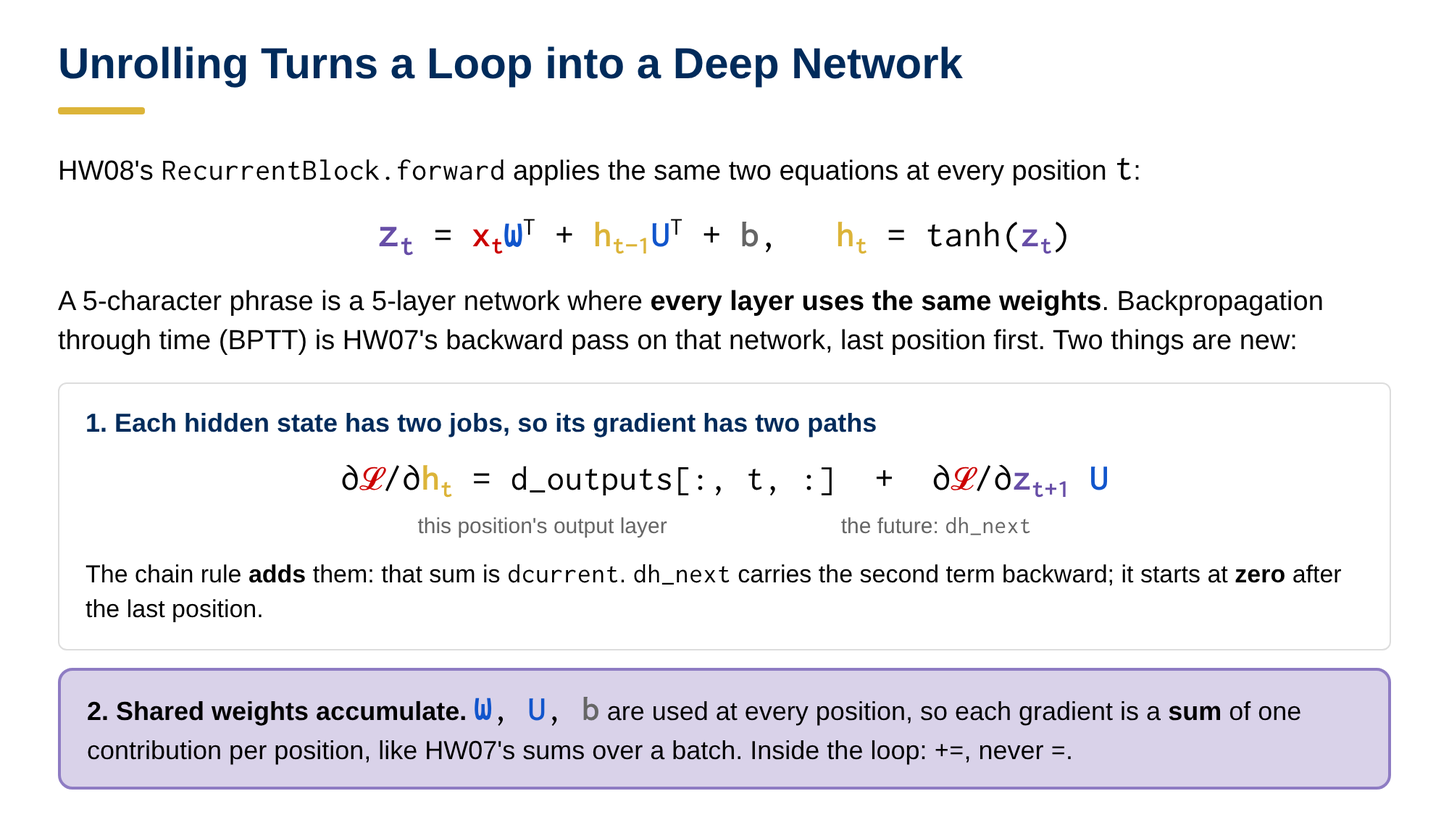
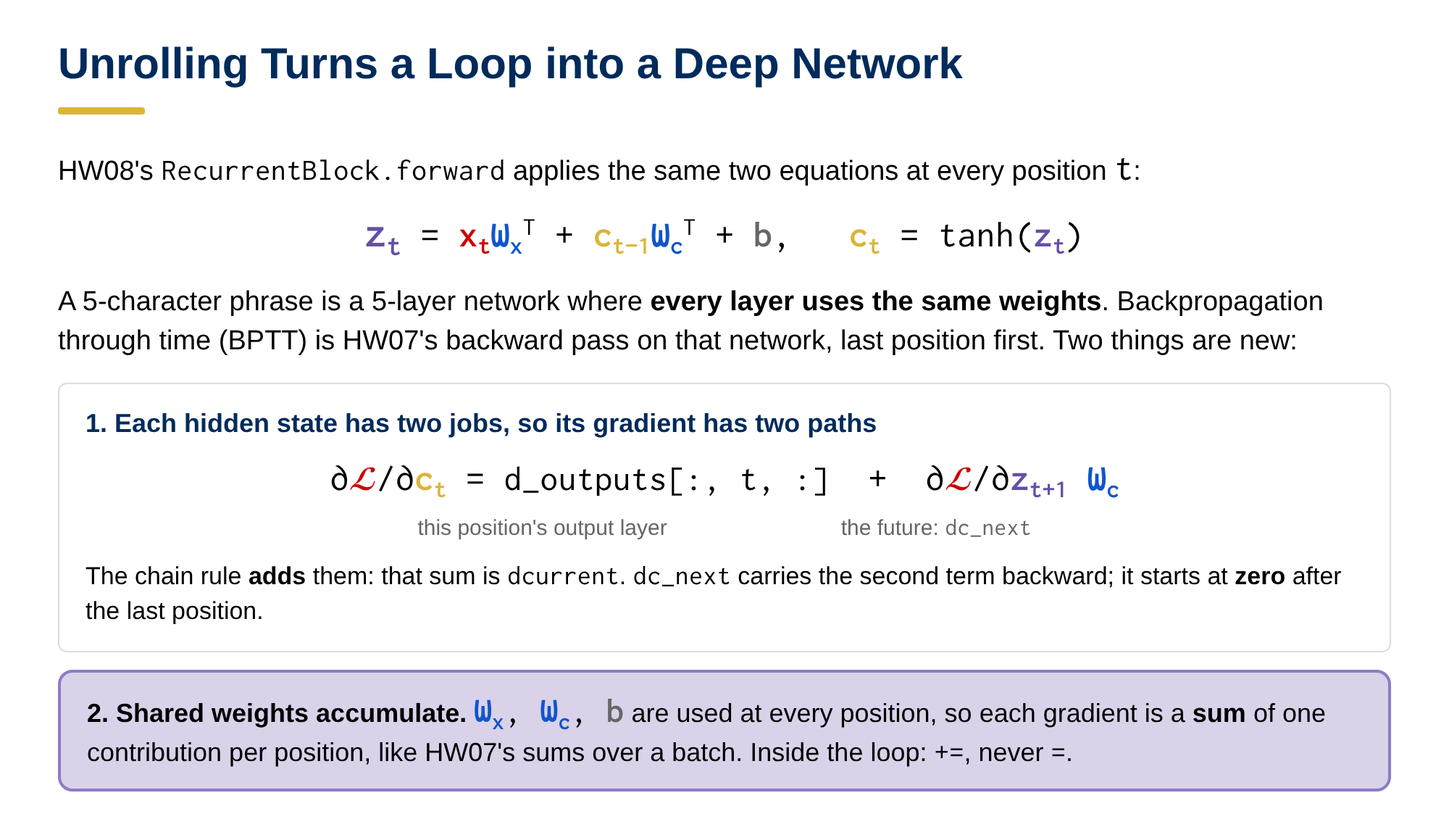
HW08-10: hidden state c (context) and weights Wx, Wc, as in the AI2AI book
The recurrent block's W/U become Wx/Wc, dW/dU become dWx/dWc, h_at_timestep/h_prev_at_timestep
become c_at_timestep/c_prev_at_timestep, dh_next becomes dc_next and h0 becomes c0 (HW08, HW09,
HW10's frozen-RNN cell). Plates 08 03-2b, 04-1, 04-2a/b/c, 05-1a/b and 09 01-3a/b/c, 02-1d re-rendered.
The checkpoint keys recurrent_W / recurrent_U are unchanged.

Claude-Session: https://claude.ai/code/session_01TFuZoG8U8ywpsP8NejiAAC

diff --git a/draft_tools/plates08.py b/draft_tools/plates08.py
@@ -1,5 +1,6 @@
 """HW08 explanation plates (lecture-style PNGs) and the notebook swap.
 
+Nov 8 2026: the hidden state is c (for context) and the recurrent weights Wx and Wc, as in the AI2AI book (were h, W, U).
 Nov 8 2026 rebuild on the SP26 classes: 02-2b, 03-1a/b, 04-1, 04-2a/b/c, 05-1a/b rewritten for
 Rot13Dataset / EmbeddingLayer / RecurrentBlock / RecurrentNeuralNetwork / CharRNN; 05-2a/b moved out (metrics are HW09).
 
@@ -196,25 +197,25 @@ def _():
 @plate('plate_04-1_rnn_step')
 def _():
     rows = [('<span class="r">x<sub>t</sub></span>', 'embeddings of the characters at position t, one row per phrase', '(B, 32)'),
-            ('<span class="y">h<sub>t−1</sub></span>', 'previous hidden states', '(B, 64)'),
-            ('<span class="b">W</span>', 'turns the current input into hidden-state space', '(64, 32)'),
-            ('<span class="b">U</span>', 'turns the previous hidden state into hidden-state space', '(64, 64)'),
+            ('<span class="y">c<sub>t−1</sub></span>', 'previous hidden states', '(B, 64)'),
+            ('<span class="b">W<sub>x</sub></span>', 'turns the current input into hidden-state space', '(64, 32)'),
+            ('<span class="b">W<sub>c</sub></span>', 'turns the previous hidden state into hidden-state space', '(64, 64)'),
             ('<span class="k2">b</span>', 'hidden bias', '(64,)'),
-            ('<span class="y">h<sub>t</sub></span>', 'new hidden states', '(B, 64)')]
+            ('<span class="y">c<sub>t</sub></span>', 'new hidden states', '(B, 64)')]
     body = ''.join(f'<tr><td class="m">{a}</td><td>{b}</td><td class="code">{c}</td></tr>' for a, b, c in rows)
     return title('A Network with a Memory') + f'''
-<p>Text arrives in order, and what a character means can depend on what came before. A <b class="def">recurrent neural network</b> reads one position at a time and keeps a <b class="def">hidden state</b> <span class="m y">h<sub>t</sub></span>, a vector summarizing everything read so far. One step of <span class="code">RecurrentBlock.forward</span>:</p>
-<div class="eq"><span class="p">z<sub>t</sub></span> = <span class="r">x<sub>t</sub></span> <span class="b">W</span><sup>T</sup> + <span class="y">h<sub>t−1</sub></span> <span class="b">U</span><sup>T</sup> + <span class="k2">b</span>, &nbsp; <span class="y">h<sub>t</sub></span> = tanh(<span class="p">z<sub>t</sub></span>)</div>
+<p>Text arrives in order, and what a character means can depend on what came before. A <b class="def">recurrent neural network</b> reads one position at a time and keeps a <b class="def">hidden state</b> <span class="m y">c<sub>t</sub></span> (<span class="m y">c</span> for context), a vector summarizing everything read so far. One step of <span class="code">RecurrentBlock.forward</span>:</p>
+<div class="eq"><span class="p">z<sub>t</sub></span> = <span class="r">x<sub>t</sub></span> <span class="b">W<sub>x</sub></span><sup>T</sup> + <span class="y">c<sub>t−1</sub></span> <span class="b">W<sub>c</sub></span><sup>T</sup> + <span class="k2">b</span>, &nbsp; <span class="y">c<sub>t</sub></span> = tanh(<span class="p">z<sub>t</sub></span>)</div>
 <div class="row" style="align-items:flex-start">
  <div style="flex:1.35"><table class="t" style="font-size:16px;margin:0"><tr><th>Symbol</th><th>Meaning</th><th>Shape</th></tr>{body}</table>
- <p style="font-size:15px;margin:8px 0 0" class="k">Both products are a linear layer's "outputs × inputs" weights. The first step starts from <span class="m">h<sub>0</sub> = 0</span>.</p></div>
+ <p style="font-size:15px;margin:8px 0 0" class="k">Both products are a linear layer's "outputs × inputs" weights. The first step starts from <span class="m">c<sub>0</sub> = 0</span>.</p></div>
  <div class="card" style="margin:0"><h3>Worked Example</h3>
- <div style="font-size:15px;margin-bottom:6px"><span class="m r">x<sub>t</sub> = [1, 0]</span>, <span class="m y">h<sub>t−1</sub> = [0.5, −0.5]</span>,<br><span class="m b">W = I</span>, <span class="m b">U = 0.5 I</span>, <span class="m k2">b = [0, 0.1]</span></div>
+ <div style="font-size:15px;margin-bottom:6px"><span class="m r">x<sub>t</sub> = [1, 0]</span>, <span class="m y">c<sub>t−1</sub> = [0.5, −0.5]</span>,<br><span class="m b">W<sub>x</sub> = I</span>, <span class="m b">W<sub>c</sub> = 0.5 I</span>, <span class="m k2">b = [0, 0.1]</span></div>
  <div class="m" style="font-size:18px;line-height:1.8">
- <span class="r">x<sub>t</sub></span><span class="b">W</span><sup>T</sup> = [1, 0]<br>
- <span class="y">h<sub>t−1</sub></span><span class="b">U</span><sup>T</sup> = [0.25, −0.25]<br>
+ <span class="r">x<sub>t</sub></span><span class="b">W<sub>x</sub></span><sup>T</sup> = [1, 0]<br>
+ <span class="y">c<sub>t−1</sub></span><span class="b">W<sub>c</sub></span><sup>T</sup> = [0.25, −0.25]<br>
  <span class="p">z<sub>t</sub> = [1.25, −0.15]</span> <span class="note k">sum plus bias</span><br>
- <span class="y">h<sub>t</sub></span> = tanh(<span class="p">z<sub>t</sub></span>) = <span class="y">[0.8483, −0.1489]</span></div></div>
+ <span class="y">c<sub>t</sub></span> = tanh(<span class="p">z<sub>t</sub></span>) = <span class="y">[0.8483, −0.1489]</span></div></div>
 </div>
 '''
 
@@ -227,14 +228,14 @@ def _():
     for i, c in enumerate(chars):
         cols += f'''<div style="display:flex;flex-direction:column;align-items:center;gap:4px">
           <div class="box fp lp" style="min-width:58px;padding:4px;font-size:14px">logits</div><span class="arr" style="font-size:18px;padding:0">↑</span>
-          <div class="box fy ly" style="min-width:58px;padding:8px 4px;font-size:16px">h<sub>{i+1}</sub></div><span class="arr" style="font-size:18px;padding:0">↑</span>
+          <div class="box fy ly" style="min-width:58px;padding:8px 4px;font-size:16px">c<sub>{i+1}</sub></div><span class="arr" style="font-size:18px;padding:0">↑</span>
           <div class="box fr lr" style="min-width:58px;padding:4px;font-size:15px;font-family:Inc">{c}</div></div>'''
         if i < len(chars) - 1:
             cols += '<span class="arr y" style="font-size:22px;padding:0 2px;margin-top:6px">→</span>'
     return title('Unrolling Over the Whole Sequence') + f'''
 <p>Apply the same step at every position, passing each hidden state on to the next. Drawn out across time, the loop looks like a very deep network whose layers all <b>share the same weights</b>.</p>
-<div style="display:flex;align-items:center;justify-content:center;margin:6px 0 4px"><div class="box fy ly" style="min-width:0;padding:8px;font-size:16px;margin-top:6px">h<sub>0</sub>=0</div><span class="arr y" style="font-size:22px;margin-top:6px">→</span>{cols}</div>
-<p style="text-align:center;font-size:15px" class="k">every column uses the same <span class="m b">W</span> and <span class="m b">U</span> (and the same output layer); only the hidden state changes</p>
+<div style="display:flex;align-items:center;justify-content:center;margin:6px 0 4px"><div class="box fy ly" style="min-width:0;padding:8px;font-size:16px;margin-top:6px">c<sub>0</sub>=0</div><span class="arr y" style="font-size:22px;margin-top:6px">→</span>{cols}</div>
+<p style="text-align:center;font-size:15px" class="k">every column uses the same <span class="m b">W<sub>x</sub></span> and <span class="m b">W<sub>c</sub></span> (and the same output layer); only the hidden state changes</p>
 <div class="row" style="margin-bottom:10px">
  <div class="card" style="margin:0"><h3>One prediction per position</h3>The <span class="code">RecurrentBlock</span> returns every hidden state, <span class="code">(B, T, 64)</span>. The output <span class="code">LinearLayer</span> then turns each one into 41 logits:
  <span class="code">(B, T)</span> source IDs → <span class="code">(B, T, 41)</span> logits. The target at position <span class="m">t</span> is the translation of source character <span class="m">t</span>.</div>
@@ -247,7 +248,7 @@ def _():
 
 @plate('plate_04-2c_parameters')
 def _():
-    rows = [('EmbeddingLayer.W', '32 × 41', '1,312'), ('RecurrentBlock.W', '64 × 32', '2,048'), ('RecurrentBlock.U', '64 × 64', '4,096'),
+    rows = [('EmbeddingLayer.W', '32 × 41', '1,312'), ('RecurrentBlock.Wx', '64 × 32', '2,048'), ('RecurrentBlock.Wc', '64 × 64', '4,096'),
             ('RecurrentBlock.b', '64', '64'), ('output LinearLayer.W', '41 × 64', '2,624'), ('output LinearLayer.b', '41', '41')]
     body = ''.join(f'<tr><td><span class="code" style="font-weight:bold">{a}</span></td><td class="m">{c}</td><td class="m num">{d}</td></tr>' for a, c, d in rows)
     return title('Counting Parameters') + f'''
@@ -268,7 +269,7 @@ def _():
 def _():
     rows = [('<span class="code">EmbeddingLayer</span>', 'nn.Embedding(vocab_size, embed_size)', '<span class="code">.weight</span> is <span class="code">(V, 32)</span>: one <b>row</b> per token, our <span class="code">W</span> transposed'),
             ('<span class="code">RecurrentBlock</span>', 'nn.RNN(input_size=embed_size, hidden_size=hidden_size, batch_first=True)', 'tanh by default; returns all hidden states'),
-            ('<span class="code">W</span>, <span class="code">U</span>', '.weight_ih_l0, .weight_hh_l0', '"input-to-hidden" and "hidden-to-hidden", layer 0'),
+            ('<span class="code">Wx</span>, <span class="code">Wc</span>', '.weight_ih_l0, .weight_hh_l0', '"input-to-hidden" and "hidden-to-hidden", layer 0'),
             ('<span class="code">b</span>', '.bias_ih_l0 + .bias_hh_l0', 'PyTorch adds <b>two</b> biases'),
             ('output <span class="code">LinearLayer</span>', 'nn.Linear(hidden_size, vocab_size)', '<span class="code">.weight</span> <span class="code">(V, 64)</span>, <span class="code">.bias</span> <span class="code">(V,)</span>')]
     body = ''.join(f'<tr><td>{a}</td><td class="code" style="background:#EEF3FC;font-size:14px;white-space:normal">{b}</td><td style="font-size:15px">{c}</td></tr>' for a, b, c in rows)
@@ -278,7 +279,7 @@ def _():
  <div class="card" style="margin:0"><h3><span class="code">batch_first=True</span></h3>Makes <span class="code">nn.RNN</span> accept <span class="code">(B, T, 32)</span> like ours (its default is <span class="code">(T, B, 32)</span>).
  It returns the hidden states at every position, <span class="code">(B, T, 64)</span>, and the final state. We only need the first.</div>
  <div class="callout lr fr" style="margin:0"><b>The two-bias detail.</b> PyTorch computes
- <div class="m" style="margin:6px 0;font-size:16px">tanh(<span class="r">x</span> <span class="b">W<sub>ih</sub></span><sup>T</sup> + <span class="k2">b<sub>ih</sub></span> + <span class="y">h</span> <span class="b">W<sub>hh</sub></span><sup>T</sup> + <span class="k2">b<sub>hh</sub></span>)</div>
+ <div class="m" style="margin:6px 0;font-size:16px">tanh(<span class="r">x</span> <span class="b">W<sub>ih</sub></span><sup>T</sup> + <span class="k2">b<sub>ih</sub></span> + <span class="y">c</span> <span class="b">W<sub>hh</sub></span><sup>T</sup> + <span class="k2">b<sub>hh</sub></span>)</div>
  Two biases added together do what our one does, so the supplied check copies our <span class="code">b</span> into <span class="code">bias_ih_l0</span> and sets <span class="code">bias_hh_l0</span> to zero.</div>
 </div>
 <div class="callout lb fb" style="margin-bottom:0">As in HW06, matching architecture isn't enough: the supplied check copies every parameter from the scratch model before comparing outputs.</div>
@@ -429,7 +430,7 @@ def _():
     tr = ''.join(f'<td class="m num" style="font-size:16px;color:#B8860B;font-weight:bold">{v}</td>' for v in tanh)
     return title('Why a Bounded Activation?') + f'''
 <div class="card" style="margin-bottom:0"><h3>Feeding a value back into itself</h3>
-<p style="font-size:17px;margin-bottom:6px">An RNN applies the same weights to its own output at every step. A one-number version, <span class="m">h<sub>t</sub> = f(1.5 h<sub>t−1</sub> + 0.5)</span> with <span class="m">h<sub>0</sub> = 0</span>:</p>
+<p style="font-size:17px;margin-bottom:6px">An RNN applies the same weights to its own output at every step. A one-number version, <span class="m">c<sub>t</sub> = f(1.5 c<sub>t−1</sub> + 0.5)</span> with <span class="m">c<sub>0</sub> = 0</span>:</p>
 <table class="t" style="font-size:16px;margin:0 0 6px"><tr><th>step t</th>{head}</tr>
 <tr><td><b>f = ReLU</b></td>{rr}</tr><tr><td><b>f = tanh</b></td>{tr}</tr></table>
 <p style="font-size:16px;margin:0">With ReLU the state grows by about 1.5× per step; over the 263 characters of the note it would explode. tanh can never leave <span class="m">(−1, 1)</span>, so it settles.
@@ -474,13 +475,13 @@ def _():
 <div class="row" style="margin-bottom:10px">
  <div class="card" style="margin:0"><h3><span class="code">nn.RNN</span> returns two things</h3>
  The hidden state at <b>every</b> position, <span class="code">(B, T, 64)</span>, and the final state alone, <span class="code">(1, B, 64)</span>. <span class="code">CharRNN</span> only needs the first; <span class="code">_</span> is the usual name for a value we ignore.
- Unlike your <span class="code">hidden_states</span> list, it does <b>not</b> include <span class="m">h<sub>0</sub></span>.</div>
+ Unlike your <span class="code">hidden_states</span> list, it does <b>not</b> include <span class="m">c<sub>0</sub></span>.</div>
  <div class="card" style="margin:0"><h3>Only the embedding needs a transpose</h3>
  PyTorch stores <span class="code">nn.RNN</span> and <span class="code">nn.Linear</span> weights the way we do, "outputs × inputs". <span class="code">nn.Embedding</span> keeps one <b>row</b> per token, so the supplied check copies <span class="code">EmbeddingLayer.W.T</span> into it.
  <span class="code">copy_</span> requires matching shapes, so a wrong pairing fails loudly.</div>
 </div>
 <div class="callout lb fb" style="margin-bottom:0"><b>Why does PyTorch keep two biases?</b> For this simple RNN they're redundant: only their sum matters. They're there for its gated relative, the <b>GRU</b>,
-which multiplies the hidden-side part by a gate (<span class="m">r ⊙ (<span class="y">h</span> <span class="b">W<sub>hn</sub></span><sup>T</sup> + <span class="k2">b<sub>hn</sub></span>)</span>), and for compatibility with NVIDIA's cuDNN library. All of PyTorch's recurrent layers share that layout.</div>
+which multiplies the hidden-side part by a gate (<span class="m">r ⊙ (<span class="y">c</span> <span class="b">W<sub>hn</sub></span><sup>T</sup> + <span class="k2">b<sub>hn</sub></span>)</span>), and for compatibility with NVIDIA's cuDNN library. All of PyTorch's recurrent layers share that layout.</div>
 '''
 
 
@@ -530,37 +531,37 @@ SPEC = {'### Task 01-1: Description (0 pts.)': [(['(already applied: plates were
                                             '1 - tanh(a)^2. Worked example: tanh(1) = (2.718 - 0.368) / (2.718 + 0.368) = 2.350 / 3.086 = 0.7616; tanh(-1) = '
                                             '-0.7616; tanh(3) = 0.9951.'),
                                            ('plate_03-2b_why_bounded',
-                                            'Why a bounded activation: the one-number recurrence h_t = f(1.5 h_(t-1) + 0.5) from h_0 = 0 grows 0.5, 1.25, '
+                                            'Why a bounded activation: the one-number recurrence c_t = f(1.5 c_(t-1) + 0.5) from c_0 = 0 grows 0.5, 1.25, '
                                             '2.375, 4.06, ..., 24.6 after 8 steps with ReLU but settles at 0.959 with tanh. tanh is centered on zero, unlike '
                                             'sigmoid.')])],
  '### Task 04-1: Description (0 pts.)': [(['(already applied: plates were wired into the notebooks directly)'],
                                           [('plate_04-1_rnn_step',
-                                            'One recurrent step: h_t = tanh(x_t W^T + h_(t-1) U^T + b). Shapes: x_t (B, 32), h (B, 64), W (64, 32), U (64, '
-                                            '64), b (64,). h_0 = 0. Example: x = [1, 0], h_prev = [0.5, -0.5], W = I, U = 0.5 I, b = [0, 0.1] gives z = [1.25, '
-                                            '-0.15] and h_t = [0.8483, -0.1489].'),
+                                            'One recurrent step: c_t = tanh(x_t Wx^T + c_(t-1) Wc^T + b), c for context. Shapes: x_t (B, 32), c (B, 64), Wx (64, 32), Wc (64, '
+                                            '64), b (64,). c_0 = 0. Example: x = [1, 0], c_prev = [0.5, -0.5], Wx = I, Wc = 0.5 I, b = [0, 0.1] gives z = [1.25, '
+                                            '-0.15] and c_t = [0.8483, -0.1489].'),
                                            ('plate_04-2a_unrolling',
-                                            'Unrolling: the same step at every position with shared weights W and U. The output layer turns each hidden state '
+                                            'Unrolling: the same step at every position with shared weights Wx and Wc. The output layer turns each hidden state '
                                             'into 41 logits, so (B, T) token IDs become (B, T, 41) logits. At each timestep X[:, timestep, :] has shape (B, '
-                                            '32). hidden_states caches a Grad_Info(x, h, h_prev) for every step plus the zero start: T + 1 entries, used by '
+                                            '32). hidden_states caches a Grad_Info(x, c, c_prev) for every step plus the zero start: T + 1 entries, used by '
                                             'backpropagation in HW09.')])],
  '### Task 04-2: Description (0 pts.)': [(['(already applied: plates were wired into the notebooks directly)'],
                                           [('plate_04-2b_inside_forward',
                                             'Inside the forward pass for the toy batch (B = 2, T = 6): token IDs (2, 6); one-hot (2, 6, 41); embeddings (2, 6, '
-                                            '32); at each timestep x (2, 32), h_prev (2, 64), z and h (2, 64); hidden_states holds 7 entries; outputs stack to '
+                                            '32); at each timestep x (2, 32), c_prev (2, 64), z and c (2, 64); hidden_states holds 7 entries; outputs stack to '
                                             '(2, 6, 64); the output layer gives logits (2, 6, 41). Common mistakes: X[timestep] instead of X[:, timestep, :]; '
                                             'using the zero start at every step; calling layer.forward(X) without X = ; stacking with dim=0.'),
                                            ('plate_04-2c_parameters',
-                                            'Parameters: embedding W 32 x 41 = 1,312, recurrent W 64 x 32 = 2,048, U 64 x 64 = 4,096, b 64, output W 41 x 64 = '
+                                            'Parameters: embedding W 32 x 41 = 1,312, recurrent Wx 64 x 32 = 2,048, Wc 64 x 64 = 4,096, b 64, output W 41 x 64 = '
                                             '2,624, output b 41: 10,185 in all, independent of sequence length. The embedding layer also inherits an unused '
                                             'bias from LinearLayer.')])],
  '### Task 05-1: Description (0 pts.)': [(['(already applied: plates were wired into the notebooks directly)'],
                                           [('plate_05-1a_library_version',
                                             'PyTorch version: nn.Embedding(V, 32) for the embedding layer, whose weight is our W transposed; '
-                                            'nn.RNN(input_size=32, hidden_size=64, batch_first=True) for the recurrent block, with weight_ih_l0 = W, '
-                                            'weight_hh_l0 = U, and bias_ih_l0 + bias_hh_l0 = b; nn.Linear(64, V) for the output layer.'),
+                                            'nn.RNN(input_size=32, hidden_size=64, batch_first=True) for the recurrent block, with weight_ih_l0 = Wx, '
+                                            'weight_hh_l0 = Wc, and bias_ih_l0 + bias_hh_l0 = b; nn.Linear(64, V) for the output layer.'),
                                            ('plate_05-1b_scratch_and_library',
                                             'Scratch and library side by side: the embedding, the recurrent loop, and the output layer each map to one PyTorch '
-                                            'module. nn.RNN returns all hidden states (B, T, 64), without h_0, and the final state (1, B, 64). Only the '
+                                            'module. nn.RNN returns all hidden states (B, T, 64), without c_0, and the final state (1, B, 64). Only the '
                                             'embedding needs a transpose when copying. PyTorch keeps two recurrent biases for its gated relative, the GRU, and '
                                             'for cuDNN compatibility.')])]}
 EXTRA = {}

diff --git a/draft_tools/plates09.py b/draft_tools/plates09.py
@@ -1,13 +1,13 @@
 """HW09 explanation plates (backpropagation through time).  See plates_common.py for usage.
 
 Nov 8 2026 rebuild on the SP26 classes: plates follow LinearLayer / Tanh / RecurrentBlock / RecurrentNeuralNetwork / CharRNN
-(W, U, b; d_outputs, dcurrent, dz_at_timestep, dh_next). The FA26-draft plates for gather, clipping, the vanishing-gradient
+(Wx, Wc, b; d_outputs, dcurrent, dz_at_timestep, dc_next; renamed from W, U, h the same day to match the AI2AI book: c for context). The FA26-draft plates for gather, clipping, the vanishing-gradient
 experiment and the autograd check were dropped with those tasks.
 """
 import math
 
 from plates_common import *  # noqa: F401,F403
-CODE_COLORS.update({'W': 'blue', 'U': 'blue', 'b': 'gray', 'dW': 'green', 'dU': 'green', 'db': 'green', 'dX': 'green',
+CODE_COLORS.update({'W': 'blue', 'U': 'blue', 'Wx': 'blue', 'Wc': 'blue', 'dWx': 'green', 'dWc': 'green', 'c': 'gold', 'b': 'gray', 'dW': 'green', 'dU': 'green', 'db': 'green', 'dX': 'green',
                     'logits': 'purple', 'Y': 'green', 'yb': 'green', 'Y_hat': 'gold', 'h': 'gold'})  # variables in code, by role (network colours)
 
 PLATES, plate = plate_registry()
@@ -41,27 +41,27 @@ a token used three times gets three contributions, summed. Padding sits after ev
 def _():
     return title('Unrolling Turns a Loop into a Deep Network') + '''
 <p>HW08's <span class="code">RecurrentBlock.forward</span> applies the same two equations at every position <span class="m">t</span>:</p>
-<div class="eq" style="font-size:22px"><span class="m p">z<sub>t</sub></span> = <span class="r">x<sub>t</sub></span><span class="b">W</span><sup>T</sup> + <span class="y">h<sub>t−1</sub></span><span class="b">U</span><sup>T</sup> + <span class="k2">b</span>,&nbsp;&nbsp;
- <span class="y">h<sub>t</sub></span> = tanh(<span class="p">z<sub>t</sub></span>)</div>
+<div class="eq" style="font-size:22px"><span class="m p">z<sub>t</sub></span> = <span class="r">x<sub>t</sub></span><span class="b">W<sub>x</sub></span><sup>T</sup> + <span class="y">c<sub>t−1</sub></span><span class="b">W<sub>c</sub></span><sup>T</sup> + <span class="k2">b</span>,&nbsp;&nbsp;
+ <span class="y">c<sub>t</sub></span> = tanh(<span class="p">z<sub>t</sub></span>)</div>
 <p>A 5-character phrase is a 5-layer network where <b>every layer uses the same weights</b>. Backpropagation through time (BPTT) is HW07's backward pass on that network, last position first. Two things are new:</p>
 <div class="card"><h3>1. Each hidden state has two jobs, so its gradient has two paths</h3>
-<div class="eq" style="font-size:22px;margin:10px 0 6px">∂<span class="ls">𝓛</span>/∂<span class="y">h<sub>t</sub></span> = <span class="code">d_outputs[:, t, :]</span> &nbsp;+&nbsp; ∂<span class="ls">𝓛</span>/∂<span class="p">z<sub>t+1</sub></span> <span class="b">U</span></div>
-<div style="display:flex;justify-content:center;gap:120px;font-size:15px" class="k"><span>this position's output layer</span><span>the future: <span class="code">dh_next</span></span></div>
-<p style="font-size:17px;margin:10px 0 0">The chain rule <b>adds</b> them: that sum is <span class="code">dcurrent</span>. <span class="code">dh_next</span> carries the second term backward; it starts at <b>zero</b> after the last position.</p></div>
-<div class="callout lp fp" style="margin-bottom:0"><b>2. Shared weights accumulate.</b> <span class="m"><span class="b">W</span>, <span class="b">U</span>, <span class="k2">b</span></span> are used at every position, so each gradient is a <b>sum</b> of one contribution per position, like HW07's sums over a batch. Inside the loop: <span class="code">+=</span>, never <span class="code">=</span>.</div>
+<div class="eq" style="font-size:22px;margin:10px 0 6px">∂<span class="ls">𝓛</span>/∂<span class="y">c<sub>t</sub></span> = <span class="code">d_outputs[:, t, :]</span> &nbsp;+&nbsp; ∂<span class="ls">𝓛</span>/∂<span class="p">z<sub>t+1</sub></span> <span class="b">W<sub>c</sub></span></div>
+<div style="display:flex;justify-content:center;gap:120px;font-size:15px" class="k"><span>this position's output layer</span><span>the future: <span class="code">dc_next</span></span></div>
+<p style="font-size:17px;margin:10px 0 0">The chain rule <b>adds</b> them: that sum is <span class="code">dcurrent</span>. <span class="code">dc_next</span> carries the second term backward; it starts at <b>zero</b> after the last position.</p></div>
+<div class="callout lp fp" style="margin-bottom:0"><b>2. Shared weights accumulate.</b> <span class="m"><span class="b">W<sub>x</sub></span>, <span class="b">W<sub>c</sub></span>, <span class="k2">b</span></span> are used at every position, so each gradient is a <b>sum</b> of one contribution per position, like HW07's sums over a batch. Inside the loop: <span class="code">+=</span>, never <span class="code">=</span>.</div>
 '''
 
 
 @plate('plate_01-3b_one_step_backward')
 def _():
-    rows = [('<span class="code">dcurrent</span> = ', 'd_outputs[:, t, :] + dh_next', '', '(B, H)', 'h_t', 'fy'),
-            ('<span class="code">dtanh</span> = ', 'activation.backward(h_at_timestep)', '1 − h²', '(B, H)', 'slope', 'fk'),
+    rows = [('<span class="code">dcurrent</span> = ', 'd_outputs[:, t, :] + dc_next', '', '(B, H)', 'c_t', 'fy'),
+            ('<span class="code">dtanh</span> = ', 'activation.backward(c_at_timestep)', '1 − c²', '(B, H)', 'slope', 'fk'),
             ('<span class="code">dz_at_timestep</span> = ', 'dcurrent * dtanh', 'element-wise', '(B, H)', 'z_t', 'fp'),
-            ('<span class="code">dW</span> += ', 'dz.T @ x_at_timestep', '(H, B) @ (B, E)', '(H, E)', 'W', 'fb'),
-            ('<span class="code">dU</span> += ', 'dz.T @ h_prev_at_timestep', '(H, B) @ (B, H)', '(H, H)', 'U', 'fb'),
+            ('<span class="code">dWx</span> += ', 'dz.T @ x_at_timestep', '(H, B) @ (B, E)', '(H, E)', 'Wx', 'fb'),
+            ('<span class="code">dWc</span> += ', 'dz.T @ c_prev_at_timestep', '(H, B) @ (B, H)', '(H, H)', 'Wc', 'fb'),
             ('<span class="code">db</span> += ', 'dz.sum(dim=0)', '', '(H,)', 'b', 'fk'),
-            ('<span class="code">dX[:, t, :]</span> = ', 'dz @ W', '(B, H) @ (H, E)', '(B, E)', 'x_t', 'fr'),
-            ('<span class="code">dh_next</span> = ', 'dz @ U', '(B, H) @ (H, H)', '(B, H)', 'h_prev', 'fk')]
+            ('<span class="code">dX[:, t, :]</span> = ', 'dz @ Wx', '(B, H) @ (H, E)', '(B, E)', 'x_t', 'fr'),
+            ('<span class="code">dc_next</span> = ', 'dz @ Wc', '(B, H) @ (H, H)', '(B, H)', 'c_prev', 'fk')]
     body = ''.join(
         f'<tr><td><span style="display:inline-block;width:8px;height:20px;vertical-align:middle;margin-right:8px;border-radius:2px" class="{f}"></span>{a}</td>'
         f'<td class="code">{b}</td><td class="code k">{c}</td><td class="code"><b>{d}</b> <span class="note k">= {e}</span></td></tr>'
@@ -70,7 +70,7 @@ def _():
 <p style="margin-bottom:8px">Read this step's cache with <span class="code">self.hidden_states[backwards_timestep + 1]</span> (entry 0 is the zero start), then:</p>
 <table class="t" style="font-size:16px"><tr><th>Quantity</th><th>Formula</th><th>Shapes multiplied</th><th>Result</th></tr>{body}</table>
 <div class="row">
- <div class="callout ly fy" style="margin:0">The tanh slope is <span class="m">1 − tanh(z)<sup>2</sup> = 1 − h<sub>t</sub><sup>2</sup></span>: computed from the <b>cached</b> hidden state. That's why HW08 cached every state.</div>
+ <div class="callout ly fy" style="margin:0">The tanh slope is <span class="m">1 − tanh(z)<sup>2</sup> = 1 − c<sub>t</sub><sup>2</sup></span>: computed from the <b>cached</b> hidden state. That's why HW08 cached every state.</div>
  <div class="callout lg fg" style="margin:0">Same pattern as HW07: weight gradient = (gradient arriving)<sup>T</sup> @ (layer input); gradient passed back = (gradient arriving) @ weight. <b>Every gradient has the shape of its tensor.</b></div>
 </div>
 '''
@@ -84,24 +84,24 @@ def _():
     dz1 = d1 * (1 - h1 ** 2)
     assert (round(h1, 3), round(h2, 3), round(dz2, 3), round(d1, 3), round(dz1, 3)) == (0.462, -0.13, -0.393, -0.115, -0.09)
     return title('Worked Example: A One-Number RNN') + f'''
-<p style="font-size:18px">Hidden size 1: <span class="m b">W = 0.5</span>, <span class="m b">U = 0.8</span>, no bias, inputs <span class="m r">x<sub>1</sub> = 1</span>, <span class="m r">x<sub>2</sub> = −1</span>, <span class="m y">h<sub>0</sub> = 0</span>.
+<p style="font-size:18px">Hidden size 1: <span class="m b">W<sub>x</sub> = 0.5</span>, <span class="m b">W<sub>c</sub> = 0.8</span>, no bias, inputs <span class="m r">x<sub>1</sub> = 1</span>, <span class="m r">x<sub>2</sub> = −1</span>, <span class="m y">c<sub>0</sub> = 0</span>.
 The output layer sends back <span class="code">d_outputs</span> <span class="m">= 0.2</span> at step 1 and <span class="m">−0.4</span> at step 2.</p>
 <div class="row" style="margin-bottom:12px">
  <div class="card" style="margin:0"><div class="lab b" style="color:#1155CC">forward</div>
-  <div class="eqrow" style="display:block;font-size:20px"><span class="y">h<sub>1</sub></span> = tanh(0.5) = <span class="y">0.462</span></div>
-  <div class="eqrow" style="display:block;font-size:20px"><span class="y">h<sub>2</sub></span> = tanh(−0.5 + 0.8 × 0.462)</div>
+  <div class="eqrow" style="display:block;font-size:20px"><span class="y">c<sub>1</sub></span> = tanh(0.5) = <span class="y">0.462</span></div>
+  <div class="eqrow" style="display:block;font-size:20px"><span class="y">c<sub>2</sub></span> = tanh(−0.5 + 0.8 × 0.462)</div>
   <div class="eqrow" style="display:block;font-size:20px;padding-left:40px">= tanh(−0.130) = <span class="y">−0.130</span></div></div>
- <div class="card" style="margin:0"><div class="lab" style="color:#666">backward, step 2 (last: dh_next = 0)</div>
+ <div class="card" style="margin:0"><div class="lab" style="color:#666">backward, step 2 (last: dc_next = 0)</div>
   <div class="eqrow" style="display:block;font-size:20px">dcurrent<sub>2</sub> = −0.4 + 0 = −0.4</div>
   <div class="eqrow" style="display:block;font-size:20px">dz<sub>2</sub> = −0.4 × (1 − 0.130<sup>2</sup>) = −0.393</div></div>
 </div>
 <div class="card"><div class="lab" style="color:#666">backward, step 1</div>
  <div class="eqrow" style="display:block;font-size:20px">dcurrent<sub>1</sub> = <span style="background:#EFEFEF;padding:2px 6px;border-radius:3px">0.2</span> + <span style="background:#D9EAD3;padding:2px 6px;border-radius:3px">(−0.393)(0.8)</span> = −0.115
-  <span class="note k" style="margin-left:10px">output path + future path (dh_next)</span></div>
+  <span class="note k" style="margin-left:10px">output path + future path (dc_next)</span></div>
  <div class="eqrow" style="display:block;font-size:20px">dz<sub>1</sub> = −0.115 × (1 − 0.462<sup>2</sup>) = −0.090</div></div>
 <div class="card"><div class="lab" style="color:#38761D">shared weights: one term per step, added</div>
- <div class="eqrow" style="display:block;font-size:20px">dU = dz<sub>2</sub> h<sub>1</sub> + dz<sub>1</sub> h<sub>0</sub> = (−0.393)(0.462) + 0 = −0.182</div>
- <div class="eqrow" style="display:block;font-size:20px">dW = dz<sub>2</sub> x<sub>2</sub> + dz<sub>1</sub> x<sub>1</sub> = 0.393 − 0.090 = 0.303</div></div>
+ <div class="eqrow" style="display:block;font-size:20px">dW<sub>c</sub> = dz<sub>2</sub> c<sub>1</sub> + dz<sub>1</sub> c<sub>0</sub> = (−0.393)(0.462) + 0 = −0.182</div>
+ <div class="eqrow" style="display:block;font-size:20px">dW<sub>x</sub> = dz<sub>2</sub> x<sub>2</sub> + dz<sub>1</sub> x<sub>1</sub> = 0.393 − 0.090 = 0.303</div></div>
 <div class="callout lr fr" style="margin-bottom:0">Without the future path, <span class="m">dcurrent<sub>1</sub></span> would be <span class="m">+0.2</span> instead of <span class="m">−0.115</span>: the gradient would point the <b>wrong way</b>.</div>
 '''
 
@@ -177,7 +177,7 @@ def _():
  <div class="callout lr fr" style="margin:0"><b>Probabilities, not logits.</b> <span class="code">cross_entropy</span> takes a log of its input and <span class="code">backward</span> subtracts the one-hot target from it: both need <b>probabilities</b>, so the forward pass in <span class="code">train</span> uses <span class="code">eval=True</span>.</div>
  <div class="card" style="margin:0"><h3>Why learning rate 0.5?</h3>Much larger than HW07's: the network is small and the loss is averaged over many characters per batch, so each gradient is small and steady.</div>
 </div>
-<div class="callout lp fp" style="margin-bottom:0">Each layer updates its <b>own</b> parameters from the gradients its <span class="code">backward</span> stored. <span class="code">Tanh</span> has none, so its <span class="code">update</span> does nothing; the <span class="code">RecurrentBlock</span> lives in <span class="code">self.layers</span> and updates <span class="code">W</span>, <span class="code">U</span> and <span class="code">b</span>.</div>
+<div class="callout lp fp" style="margin-bottom:0">Each layer updates its <b>own</b> parameters from the gradients its <span class="code">backward</span> stored. <span class="code">Tanh</span> has none, so its <span class="code">update</span> does nothing; the <span class="code">RecurrentBlock</span> lives in <span class="code">self.layers</span> and updates <span class="code">Wx</span>, <span class="code">Wc</span> and <span class="code">b</span>.</div>
 '''
 
 
@@ -253,11 +253,11 @@ SPEC = {'### Task 01-1: Description (0 pts.)': [(['(already applied: plates were
  '### Task 01-3: Description (0 pts.)': [(['(already applied: plates were wired into the notebooks directly)'],
                                           [('plate_01-3a_two_jobs',
                                             "Unrolling the recurrent block: each hidden state feeds this position's output and the next "
-                                            'step, so its gradient is the sum of both paths, and the shared W, U, b gradients accumulate '
+                                            'step, so its gradient is the sum of both paths, and the shared Wx, Wc, b gradients accumulate '
                                             'over positions.'),
                                            ('plate_01-3b_one_step_backward',
-                                            'Table of one backward step at position t: dcurrent, the tanh slope, dz, the dW, dU, db '
-                                            'contributions, dX, and dh_next, with the shapes multiplied.'),
+                                            'Table of one backward step at position t: dcurrent, the tanh slope, dz, the dWx, dWc, db '
+                                            'contributions, dX, and dc_next, with the shapes multiplied.'),
                                            ('plate_01-3c_one_number_rnn',
                                             'Worked example of BPTT on a hidden-size-1 RNN over two steps, showing the future path '
                                             "changing the sign of the first step's gradient.")])],
